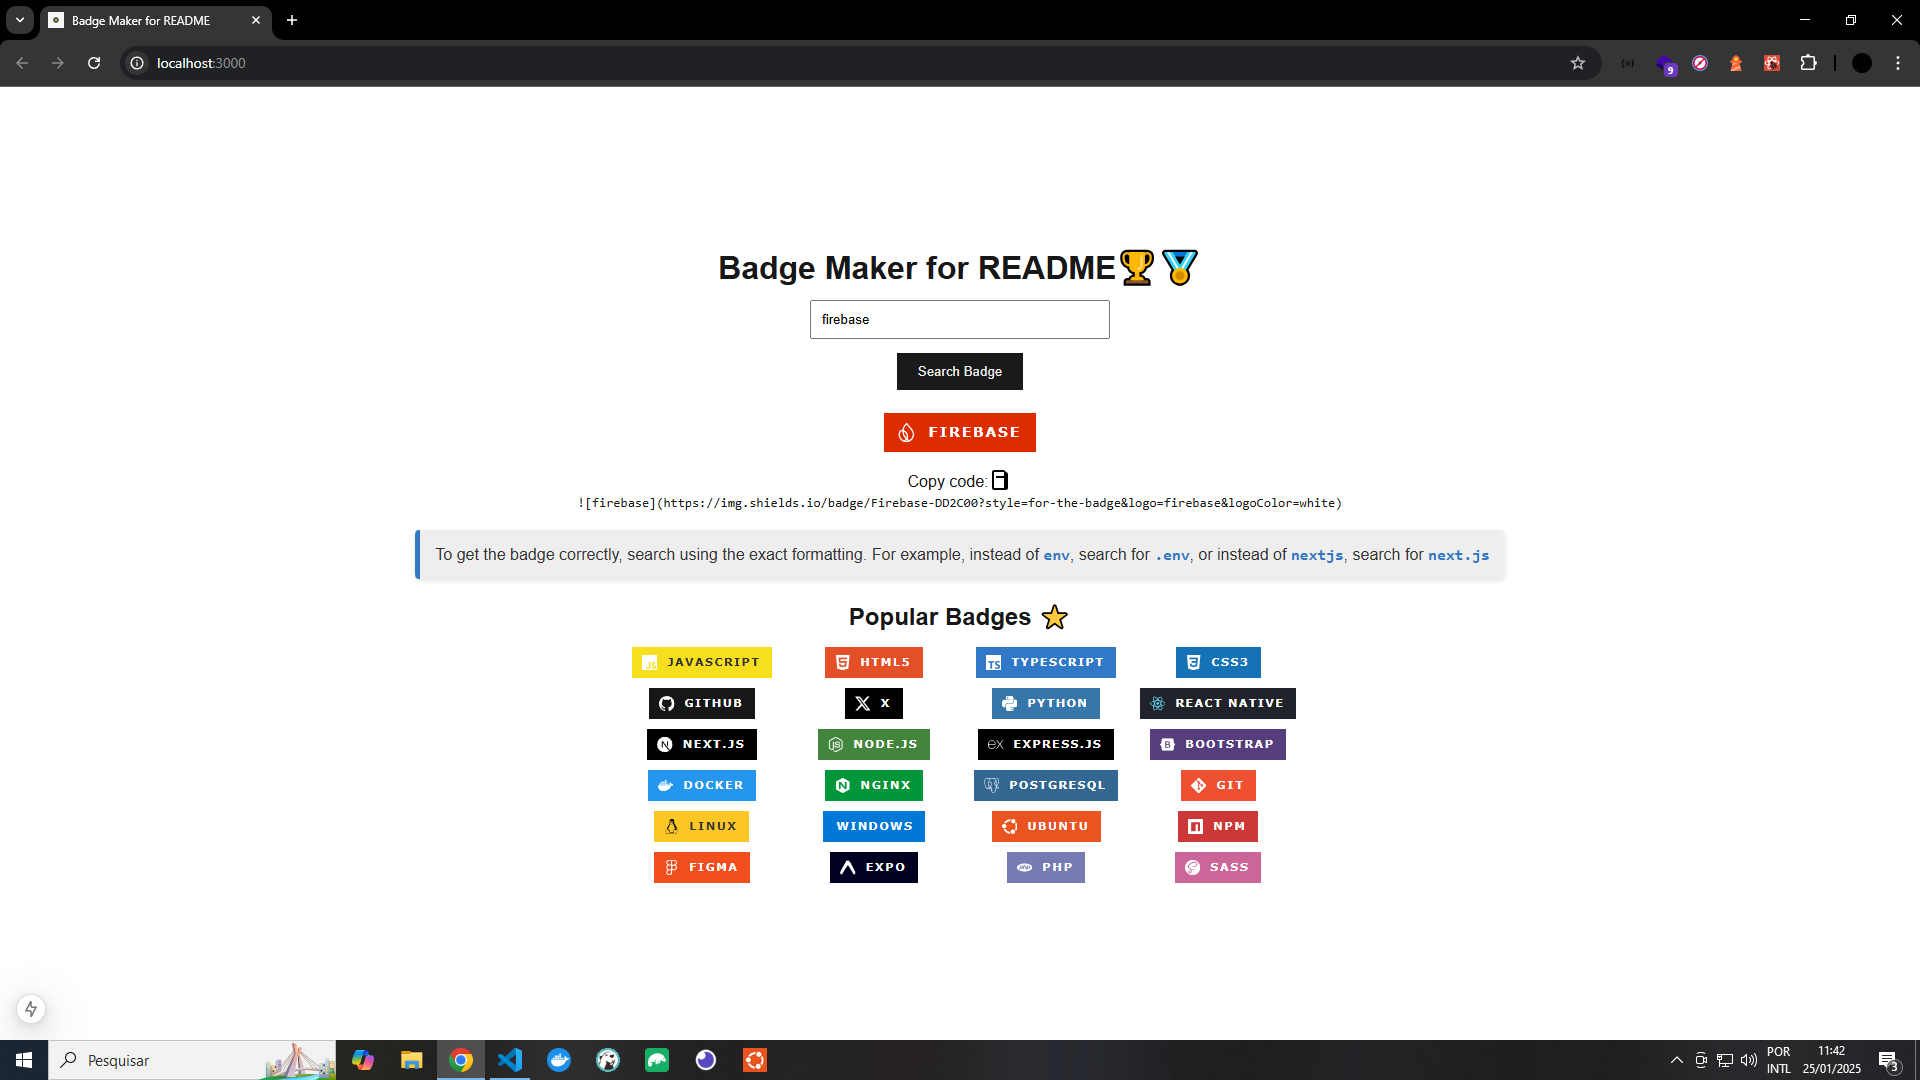
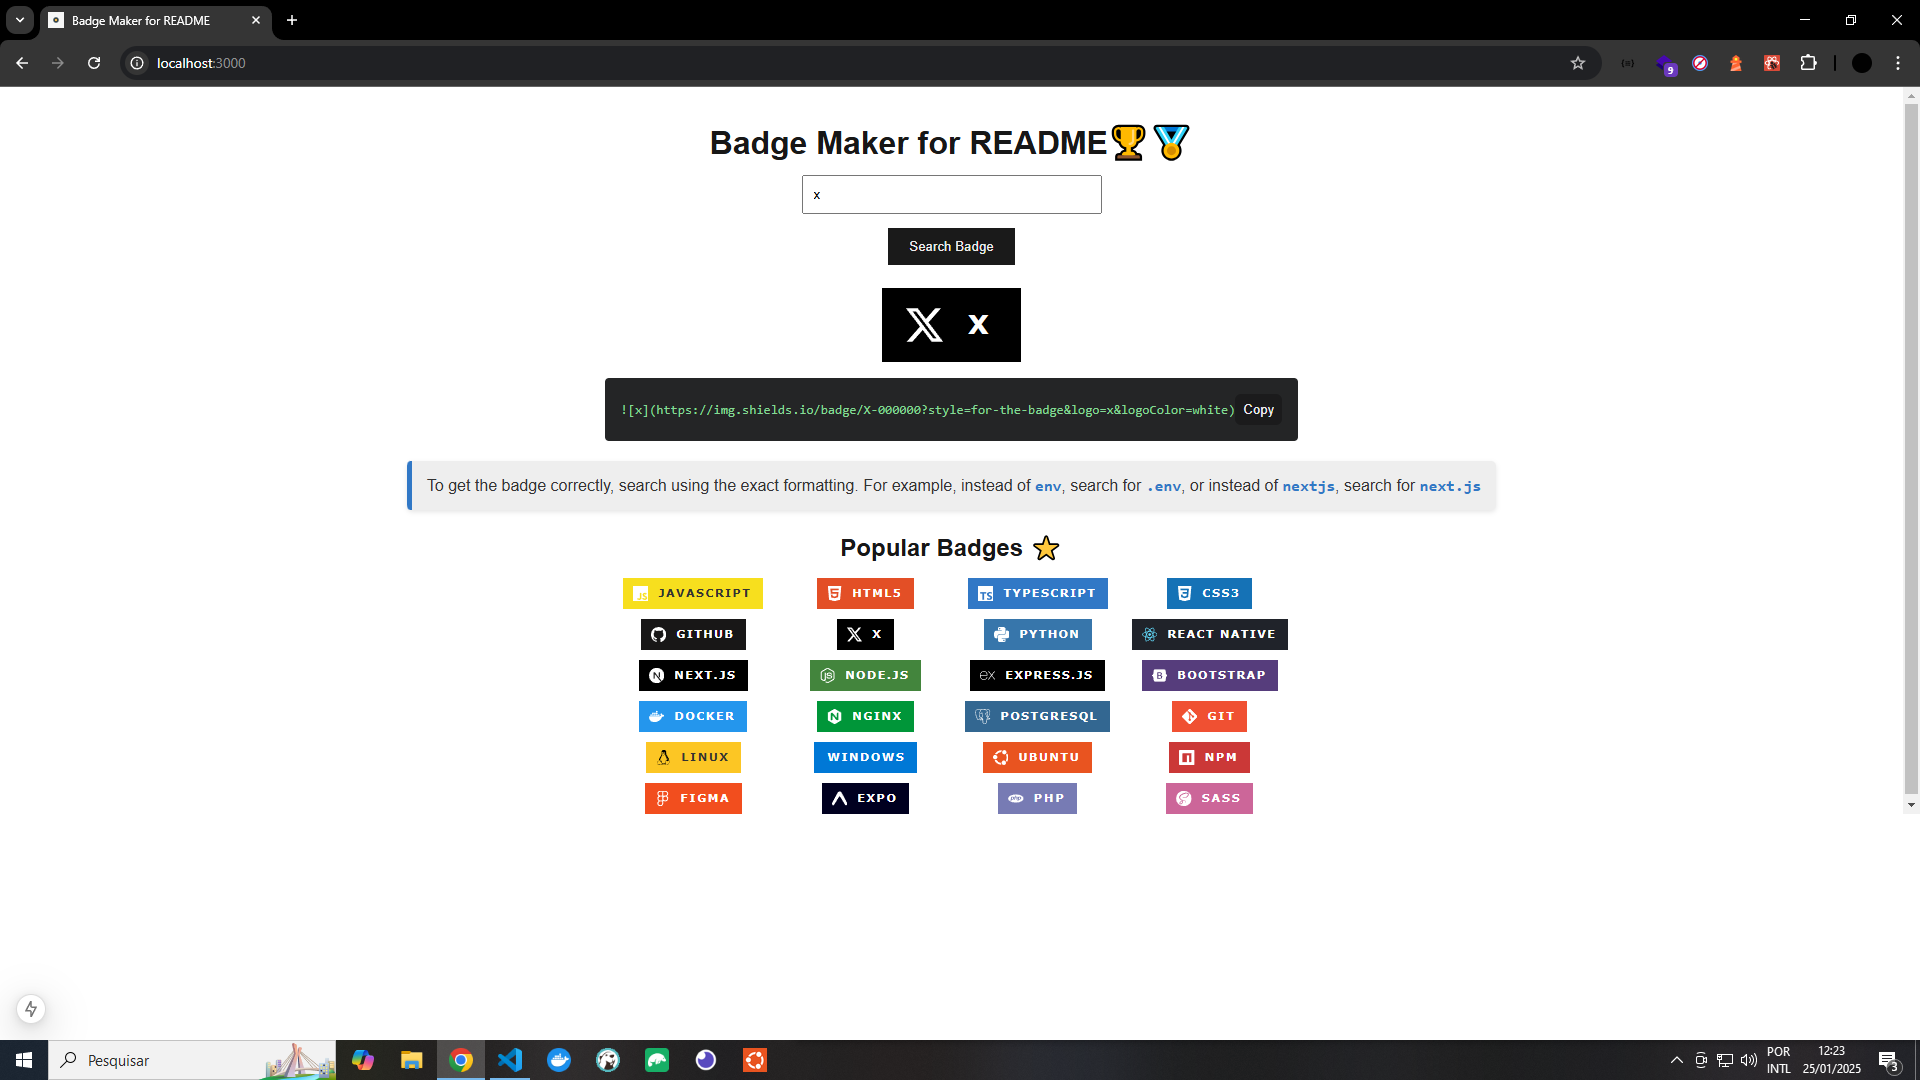
update: change copy

Changed region(s): [[0.2188, 0.1833, 0.7812, 0.825], [0.9688, 0.0917, 1.0, 0.7333], [0.375, 0.0917, 0.625, 0.1528]]

diff --git a/src/app/page.module.css b/src/app/page.module.css
@@ -8,7 +8,7 @@
   flex-direction: column;
   align-items: center;
   justify-content: center;
-  height: 100vh;
+  margin-top: 2em;
   padding: 0 32px;
   text-align: center;
 }
@@ -46,23 +46,38 @@
   margin-bottom: 1em;
 }
 
-.badgeContent p {
-  display: flex;
-  align-items: center;
-  justify-content: center;
-}
-
-.badgeContent button {
-  background: none;
-  cursor: pointer;
-  border: none;
-}
-
 .badgeContent button svg:hover {
   fill: #777;
 }
 
-.badge_message {
+.copy {
+  background-color: #242526;
+  padding: 1em;
+  border-radius: 4px;
+  justify-content: center;
+  align-items: center;
+  display: flex;
+}
+
+.copy code {
+  width: 95%;
+  color: #85d996;
+}
+
+.copy button {
+  padding: 8px;
+  background: rgba(25, 26, 27, .9);
+  color: #eee;
+  border: none;
+  border-radius: 6px;
+}
+
+.copy button:hover {
+  background: rgba(58, 58, 58, 0.9);
+  border: none;
+}
+
+.toast {
   font-size: 16px;
   color: #333;
   background-color: #eee;
@@ -74,7 +89,7 @@
   box-shadow: 0 2px 5px rgba(0, 0, 0, 0.1);
 }
 
-.badge_message code {
+.toast code {
   font-weight: bold;
   color: #3178C6;
 }
@@ -95,30 +110,6 @@
   background: none;
 }
 
-@media (prefers-color-scheme: dark) {
-  .main {
-    --gray-rgb: 255, 255, 255;
-    --gray-alpha-200: rgba(var(--gray-rgb), 0.145);
-    --gray-alpha-100: rgba(var(--gray-rgb), 0.06);
-    --button-primary-hover: #ccc;
-    --button-secondary-hover: #1a1a1a;
-  }
-
-  .badgeContent button svg {
-    fill: #fff;
-  }
-
-  .buttonGenerateBadge {
-    background-color: #444950;
-    border-color: #444950;
-  }
-
-  .badge_message {
-    background-color: #444950;
-    color: #eee;
-  }
-}
-
 .imgBadge {
   object-fit: contain; /* Isso mantém a imagem proporcional sem distorcer */
   width: 100%; /* Garantir que a imagem ocupe todo o espaço disponível */
@@ -134,5 +125,25 @@
 @media screen and (max-width: 400px) {
   .badgesPopular {
     grid-template-columns: repeat(2, 1fr);
+  }
+}
+
+@media (prefers-color-scheme: dark) {
+  .main {
+    --gray-rgb: 255, 255, 255;
+    --gray-alpha-200: rgba(var(--gray-rgb), 0.145);
+    --gray-alpha-100: rgba(var(--gray-rgb), 0.06);
+    --button-primary-hover: #ccc;
+    --button-secondary-hover: #1a1a1a;
+  }
+
+  .buttonGenerateBadge {
+    background-color: #37393b;
+    border-color: #37393b;
+  }
+
+  .toast {
+    background-color: #37393b;
+    color: #eee;
   }
 }

diff --git a/src/app/page.tsx b/src/app/page.tsx
@@ -9,6 +9,7 @@ const routePath = process.env.NODE_ENV === "development" ? '/' : '/badge-generat
 export default function Home() {
   const [tool, setTool] = useState("");
   const [badgeUrl, setBadgeUrl] = useState("");
+  const [copied, setCopied] = useState(false);
 
   const popularBadges = [
     {
@@ -140,7 +141,8 @@ export default function Home() {
   // Função para copiar o código para a área de transferência
   const copyToClipboard = (link: string) => {
     navigator.clipboard.writeText(link);
-    alert('Copied!')
+    setCopied(true);
+    setTimeout(() => setCopied(false), 2000)
   };
 
   return (
@@ -167,18 +169,17 @@ export default function Home() {
             width={120}
             className={styles.imgBadge}
           />
-          <p>Copy code:
-            <button onClick={() => copyToClipboard(`![${tool}](${badgeUrl})`)} title="copy">
-              <svg xmlns="http://www.w3.org/2000/svg" viewBox="0 0 24 24" width="24" height="24">
-                <path d="M16 2H6C4.9 2 4 2.9 4 4v16c0 1.1.9 2 2 2h12c1.1 0 2-.9 2-2V6c0-1.1-.9-2-2-2zm0 18H6V4h10v16zM8 8h8v2H8z"/>
-              </svg>
-            </button>
-          </p>
-          <code>![{tool}]({badgeUrl})</code>
+          
+          <div className={styles.copy}>
+            <code>![{tool}]({badgeUrl})</code>
+            <button onClick={() => copyToClipboard(`![${tool}](${badgeUrl})`)} title="copy code">
+              {copied ? "Copied" : "Copy"}
+            </button> 
+          </div>
         </div>
       )}
 
-      <p className={styles.badge_message}>
+      <p className={styles.toast}>
         To get the badge correctly, search using the exact formatting. For example, instead of <code>env</code>, search for <code>.env</code>, or instead of <code>nextjs</code>, search for <code>next.js</code>
       </p>
 

diff --git a/src/app/globals.css b/src/app/globals.css
@@ -5,7 +5,7 @@
 
 @media (prefers-color-scheme: dark) {
   :root {
-    --background: #242526;
+    --background: #1b1b1d;
     --foreground: #ededed;
   }
 }
